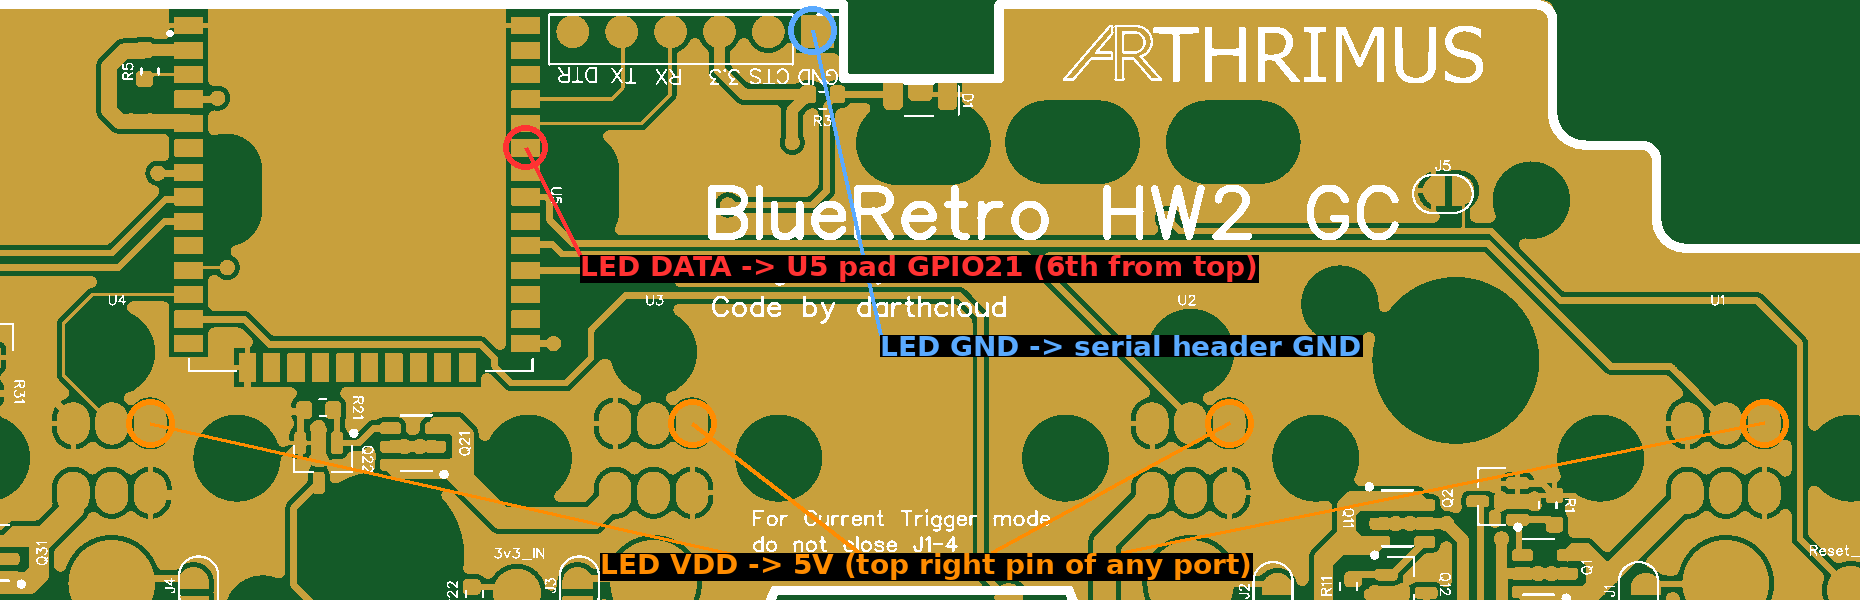
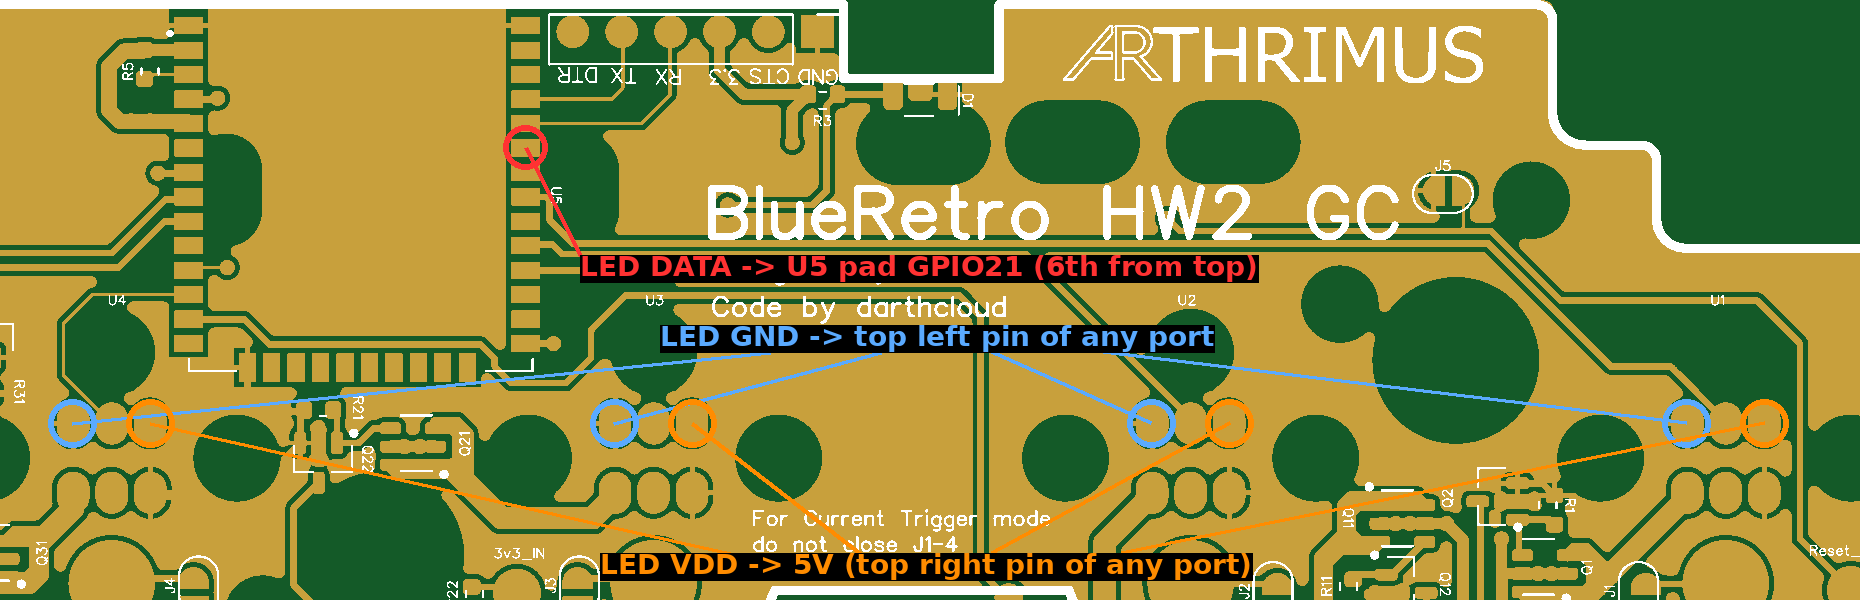
Use controller port GND pin for port LEDs, keep serial header free
Claude-Session: https://claude.ai/code/session_01JbZRr7bozz5GxebX5QNapT

diff --git a/README.md b/README.md
@@ -80,7 +80,7 @@ Four WS2812B-4020 / WS2812C-4020 addressable LEDs (one per controller port, chai
 | LED chain pin | Connect to |
 | --- | --- |
 | **DIN** (first LED) | ESP32 (U5) pad **GPIO21**. On the side of U5 facing the serial header, it is the **6th pad counting from the U.FL antenna end** (pad 1 is GND, pads 4 and 5 have the traces to the header TX/RX, GPIO21 is the first free pad below them). A 100-330 Ohm series resistor close to the ESP32 is recommended. |
-| **GND** | The **GND** pin of the serial header. |
+| **GND** | The **top left pin of any controller port** (blue circles above, right next to the 5V pin). The bottom right pin of each port is GND as well. |
 | **VDD** | **5V**: the **top right pin of any controller port** (orange circles above, as seen on the QSB side). Check with a multimeter that it reads ~5V with the console on. Do not use 3.3V, the LEDs need at least ~3.7V. |
 
 GPIO21 is not routed on the PCB and its neighbour pads are NC (unused) and RXD0, so it is the easiest free pad to solder.
